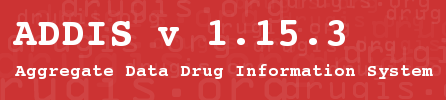
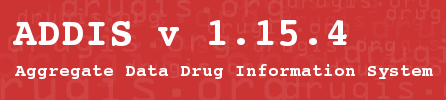
Auomated changes for 1.15.4 development

Changed region(s): [[0.7287, 0.18, 0.787, 0.48]]

diff --git a/application/src/test/java/org/drugis/addis/gui/util/ComboBoxSelectionModelTest.java b/application/src/test/java/org/drugis/addis/gui/util/ComboBoxSelectionModelTest.java
@@ -1,3 +1,29 @@
+/*
+ * This file is part of ADDIS (Aggregate Data Drug Information System).
+ * ADDIS is distributed from http://drugis.org/.
+ * Copyright © 2009 Gert van Valkenhoef, Tommi Tervonen.
+ * Copyright © 2010 Gert van Valkenhoef, Tommi Tervonen, Tijs Zwinkels,
+ * Maarten Jacobs, Hanno Koeslag, Florin Schimbinschi, Ahmad Kamal, Daniel
+ * Reid.
+ * Copyright © 2011 Gert van Valkenhoef, Ahmad Kamal, Daniel Reid, Florin
+ * Schimbinschi.
+ * Copyright © 2012 Gert van Valkenhoef, Daniel Reid, Joël Kuiper, Wouter
+ * Reckman.
+ *
+ * This program is free software: you can redistribute it and/or modify
+ * it under the terms of the GNU General Public License as published by
+ * the Free Software Foundation, either version 3 of the License, or
+ * (at your option) any later version.
+ *
+ * This program is distributed in the hope that it will be useful,
+ * but WITHOUT ANY WARRANTY; without even the implied warranty of
+ * MERCHANTABILITY or FITNESS FOR A PARTICULAR PURPOSE.  See the
+ * GNU General Public License for more details.
+ *
+ * You should have received a copy of the GNU General Public License
+ * along with this program.  If not, see <http://www.gnu.org/licenses/>.
+ */
+
 package org.drugis.addis.gui.util;
 
 import static org.junit.Assert.assertEquals;

diff --git a/application/src/main/java/org/drugis/addis/gui/util/NonEmptyValueModel.java b/application/src/main/java/org/drugis/addis/gui/util/NonEmptyValueModel.java
@@ -1,3 +1,29 @@
+/*
+ * This file is part of ADDIS (Aggregate Data Drug Information System).
+ * ADDIS is distributed from http://drugis.org/.
+ * Copyright © 2009 Gert van Valkenhoef, Tommi Tervonen.
+ * Copyright © 2010 Gert van Valkenhoef, Tommi Tervonen, Tijs Zwinkels,
+ * Maarten Jacobs, Hanno Koeslag, Florin Schimbinschi, Ahmad Kamal, Daniel
+ * Reid.
+ * Copyright © 2011 Gert van Valkenhoef, Ahmad Kamal, Daniel Reid, Florin
+ * Schimbinschi.
+ * Copyright © 2012 Gert van Valkenhoef, Daniel Reid, Joël Kuiper, Wouter
+ * Reckman.
+ *
+ * This program is free software: you can redistribute it and/or modify
+ * it under the terms of the GNU General Public License as published by
+ * the Free Software Foundation, either version 3 of the License, or
+ * (at your option) any later version.
+ *
+ * This program is distributed in the hope that it will be useful,
+ * but WITHOUT ANY WARRANTY; without even the implied warranty of
+ * MERCHANTABILITY or FITNESS FOR A PARTICULAR PURPOSE.  See the
+ * GNU General Public License for more details.
+ *
+ * You should have received a copy of the GNU General Public License
+ * along with this program.  If not, see <http://www.gnu.org/licenses/>.
+ */
+
 package org.drugis.addis.gui.util;
 
 import java.beans.PropertyChangeEvent;

diff --git a/application/src/main/java/org/drugis/addis/gui/util/ComboBoxSelectionModel.java b/application/src/main/java/org/drugis/addis/gui/util/ComboBoxSelectionModel.java
@@ -1,3 +1,29 @@
+/*
+ * This file is part of ADDIS (Aggregate Data Drug Information System).
+ * ADDIS is distributed from http://drugis.org/.
+ * Copyright © 2009 Gert van Valkenhoef, Tommi Tervonen.
+ * Copyright © 2010 Gert van Valkenhoef, Tommi Tervonen, Tijs Zwinkels,
+ * Maarten Jacobs, Hanno Koeslag, Florin Schimbinschi, Ahmad Kamal, Daniel
+ * Reid.
+ * Copyright © 2011 Gert van Valkenhoef, Ahmad Kamal, Daniel Reid, Florin
+ * Schimbinschi.
+ * Copyright © 2012 Gert van Valkenhoef, Daniel Reid, Joël Kuiper, Wouter
+ * Reckman.
+ *
+ * This program is free software: you can redistribute it and/or modify
+ * it under the terms of the GNU General Public License as published by
+ * the Free Software Foundation, either version 3 of the License, or
+ * (at your option) any later version.
+ *
+ * This program is distributed in the hope that it will be useful,
+ * but WITHOUT ANY WARRANTY; without even the implied warranty of
+ * MERCHANTABILITY or FITNESS FOR A PARTICULAR PURPOSE.  See the
+ * GNU General Public License for more details.
+ *
+ * You should have received a copy of the GNU General Public License
+ * along with this program.  If not, see <http://www.gnu.org/licenses/>.
+ */
+
 package org.drugis.addis.gui.util;
 
 import java.awt.event.ActionEvent;

diff --git a/application/src/test/java/org/drugis/addis/gui/util/NonEmptyValueModelTest.java b/application/src/test/java/org/drugis/addis/gui/util/NonEmptyValueModelTest.java
@@ -1,3 +1,29 @@
+/*
+ * This file is part of ADDIS (Aggregate Data Drug Information System).
+ * ADDIS is distributed from http://drugis.org/.
+ * Copyright © 2009 Gert van Valkenhoef, Tommi Tervonen.
+ * Copyright © 2010 Gert van Valkenhoef, Tommi Tervonen, Tijs Zwinkels,
+ * Maarten Jacobs, Hanno Koeslag, Florin Schimbinschi, Ahmad Kamal, Daniel
+ * Reid.
+ * Copyright © 2011 Gert van Valkenhoef, Ahmad Kamal, Daniel Reid, Florin
+ * Schimbinschi.
+ * Copyright © 2012 Gert van Valkenhoef, Daniel Reid, Joël Kuiper, Wouter
+ * Reckman.
+ *
+ * This program is free software: you can redistribute it and/or modify
+ * it under the terms of the GNU General Public License as published by
+ * the Free Software Foundation, either version 3 of the License, or
+ * (at your option) any later version.
+ *
+ * This program is distributed in the hope that it will be useful,
+ * but WITHOUT ANY WARRANTY; without even the implied warranty of
+ * MERCHANTABILITY or FITNESS FOR A PARTICULAR PURPOSE.  See the
+ * GNU General Public License for more details.
+ *
+ * You should have received a copy of the GNU General Public License
+ * along with this program.  If not, see <http://www.gnu.org/licenses/>.
+ */
+
 package org.drugis.addis.gui.util;
 
 import static org.junit.Assert.*;
